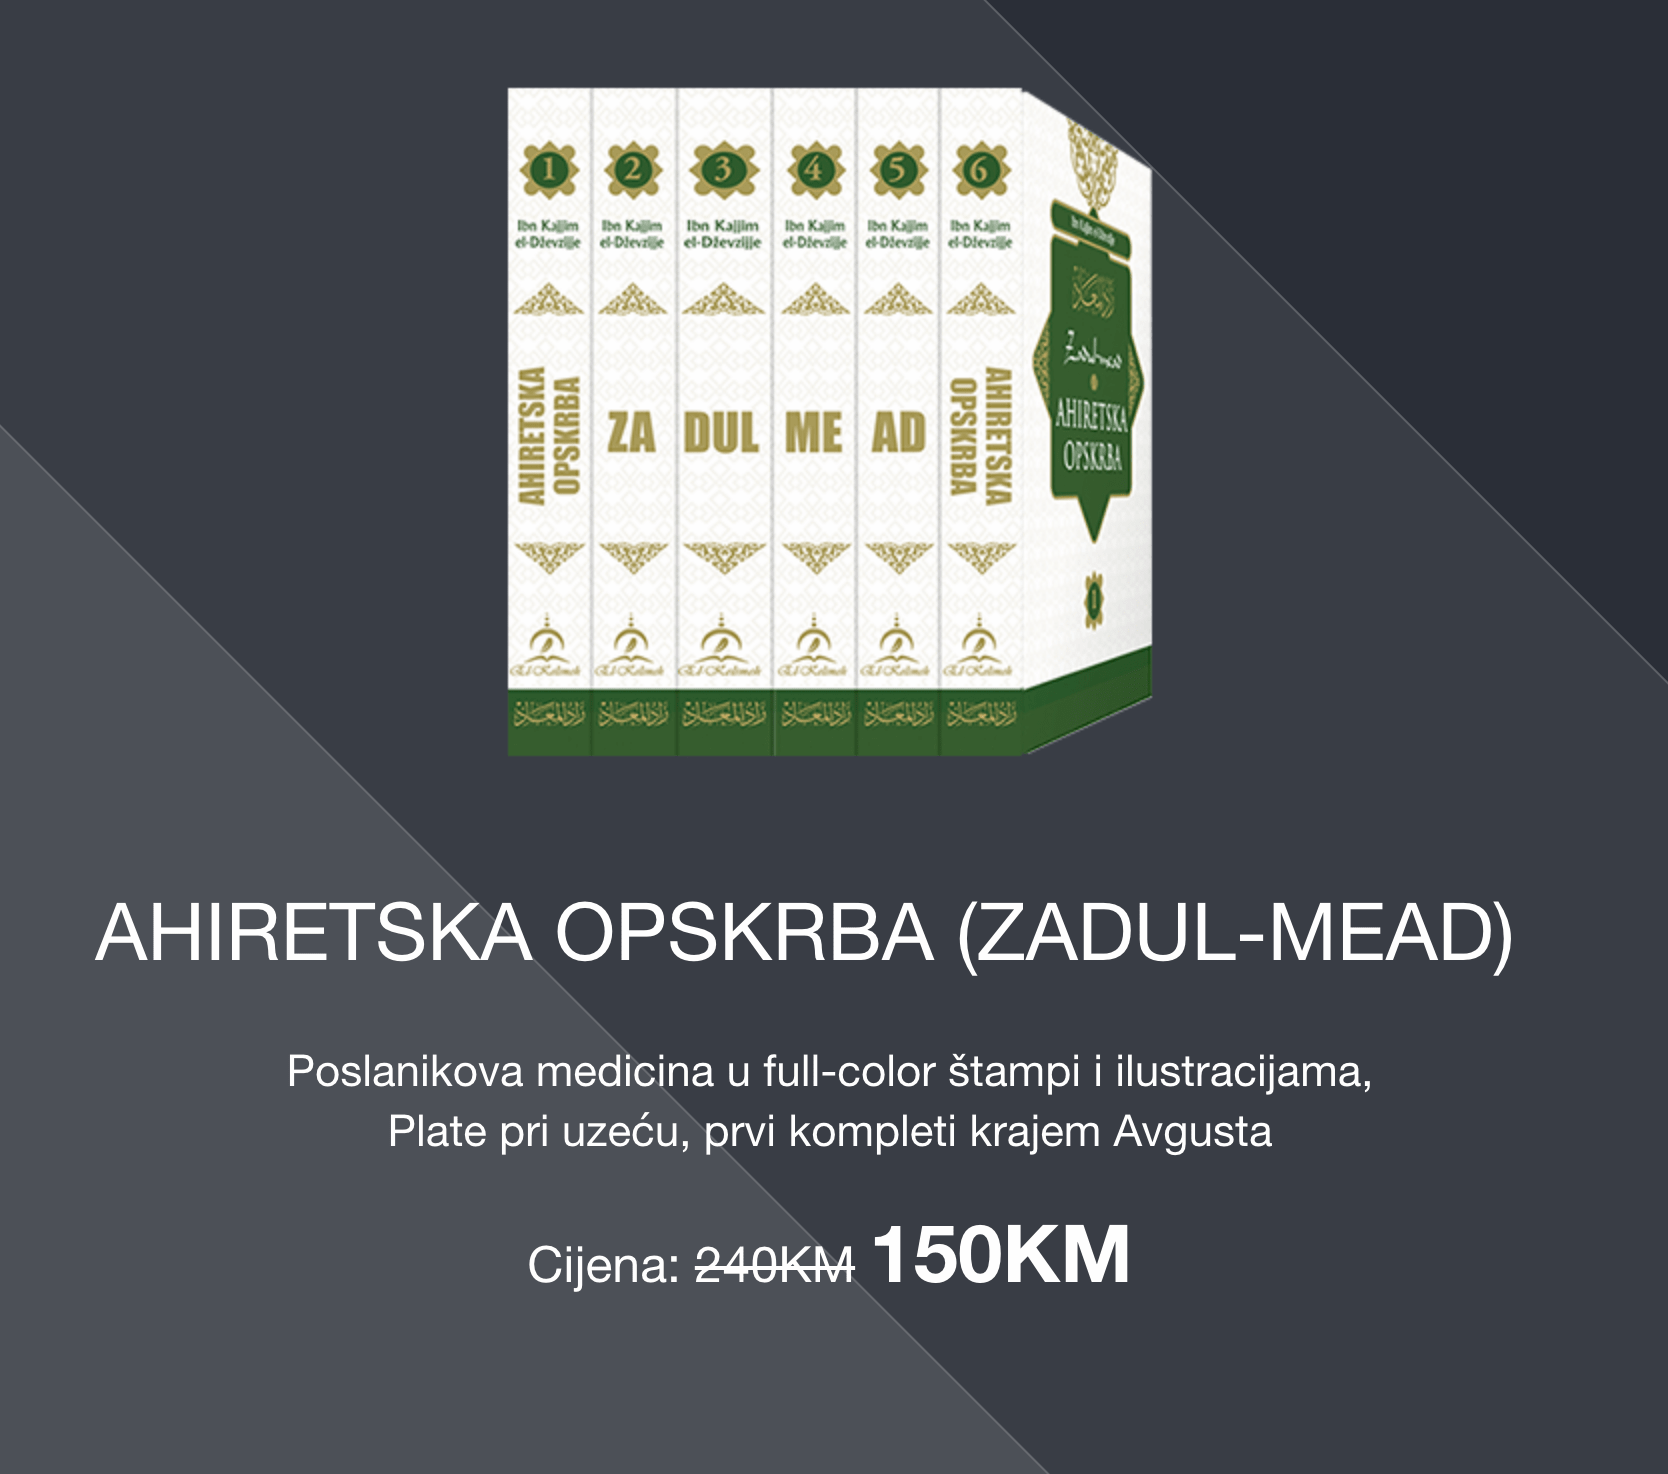
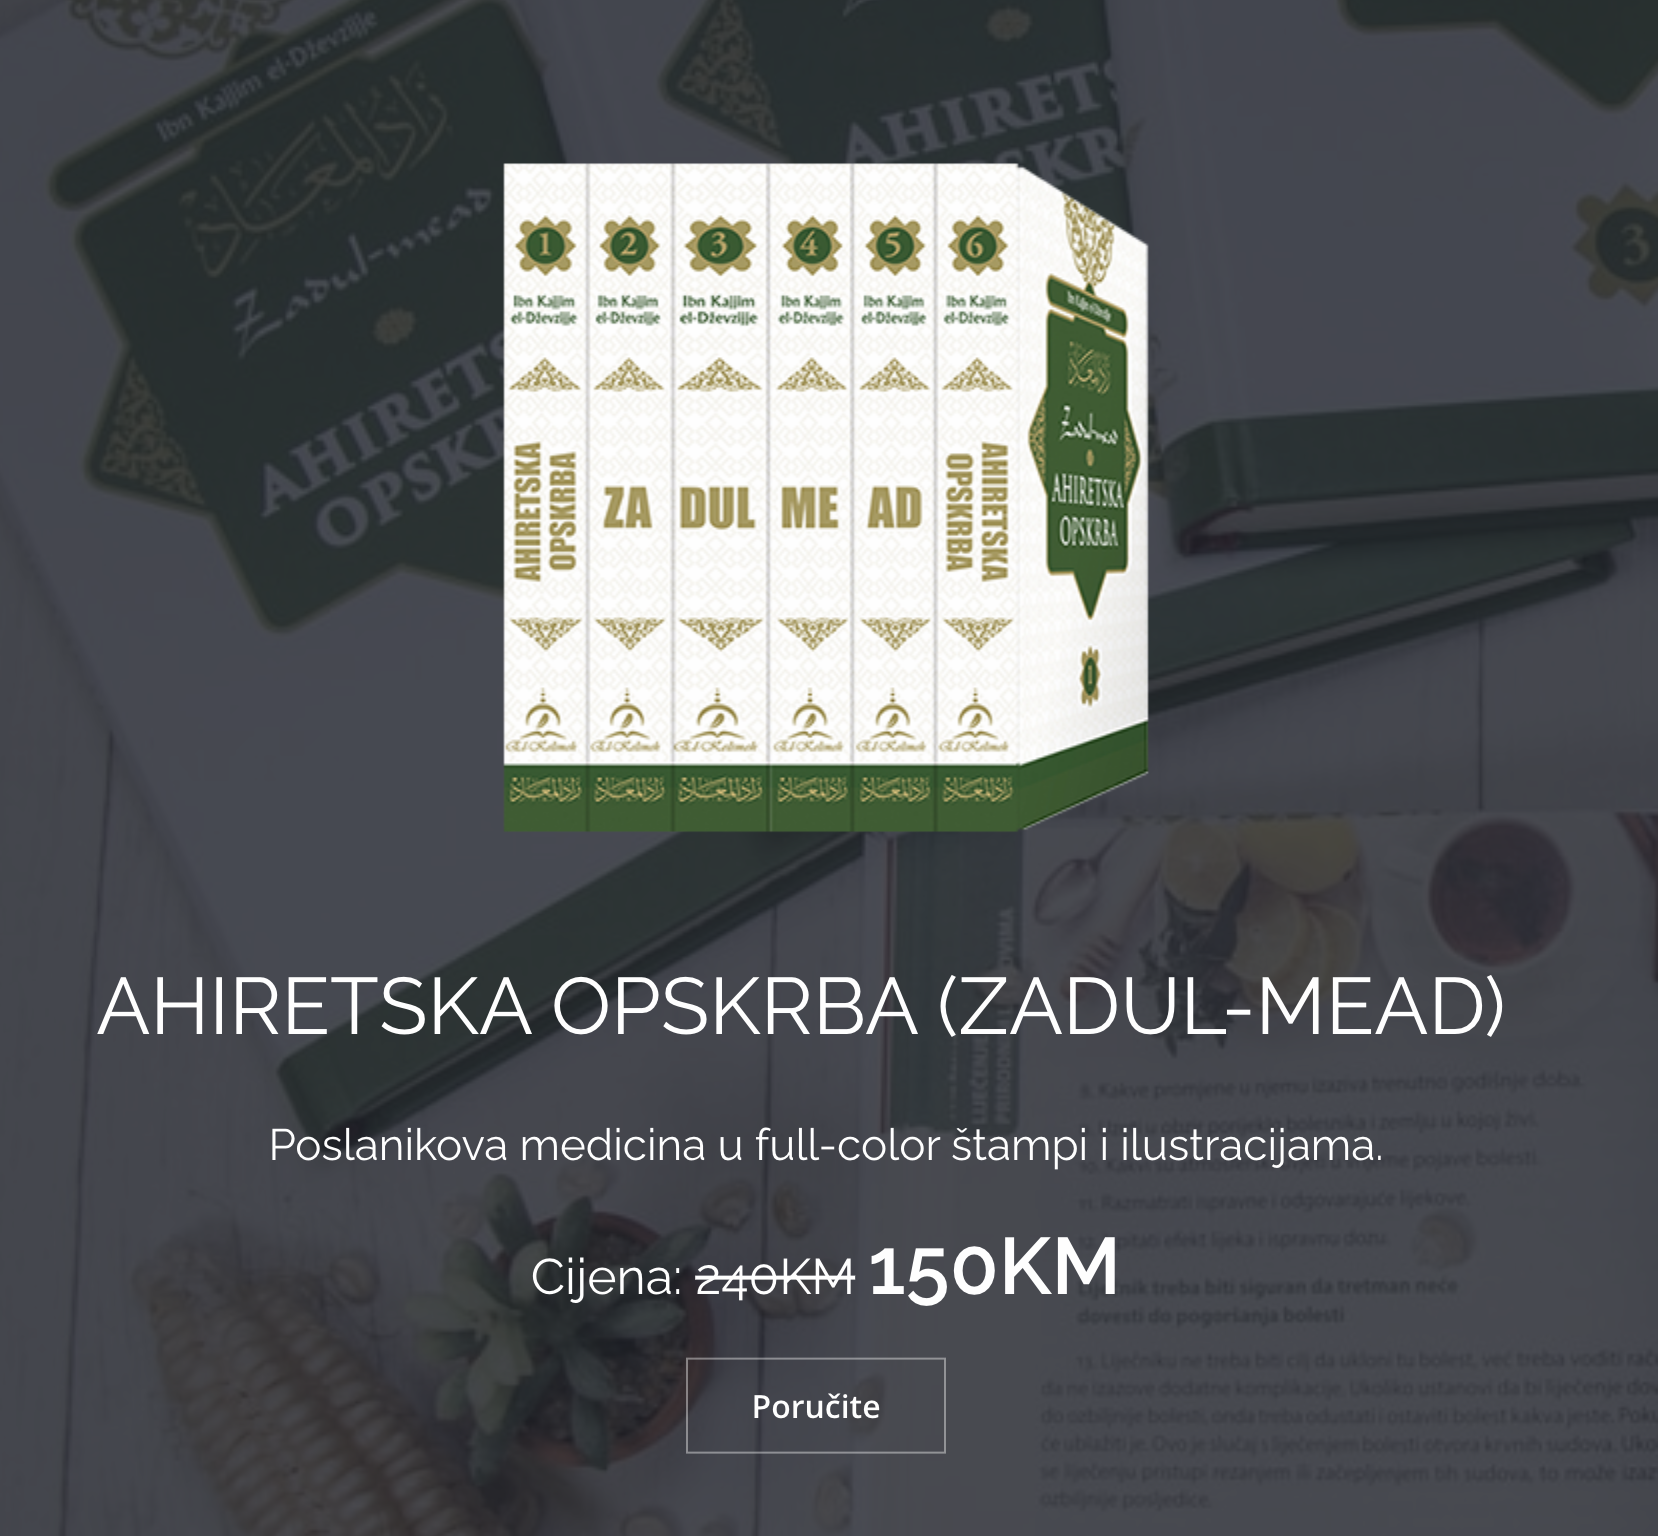
Img changes

Changed region(s): [[0.0615, 0.0, 1.0, 1.0], [0.4614, 0.905, 0.5229, 0.9362]]

diff --git a/index.html b/index.html
@@ -25,7 +25,7 @@
 			src="https://www.facebook.com/tr?id=320846982608931&ev=PageView&noscript=1"
 		/></noscript>
   <!-- End Facebook Pixel Code -->
-		
+
 		<!-- Meta description-->
 		<meta name="robots" content="all">
 		<meta name="keywords" content="ahiretska opskrba zadul-mead, ahiretska opskrba, zadul-mead, zadul mead">
@@ -36,7 +36,7 @@
 		<meta property="og:type" content="website" />
 		<meta property="og:image:alt" content="Ahiretska opskrba Zadul-mead">
 		<meta property="og:type" content="website">
-		<meta property="description" property="description" name="description" content="AHIRETSKA OPSKRBA (ZADUL-MEAD) kapitalno djelo velikana 
+		<meta property="description" property="description" name="description" content="AHIRETSKA OPSKRBA (ZADUL-MEAD) kapitalno djelo velikana
 		islamskih znanosti Ibn Kajjima el-Dževzijje, u šest tomova B5 formata sa koricama u tvrdom uvezu i najkvalitetnijoj štampi na šamoa papiru, na blizu 3.000 strana.">
 		<meta property="og:locale" content="bs-BA">
 
@@ -67,7 +67,7 @@
 			return false;
 			}
 		</script>
-	
+
 
 
 		<!-- Global site tag (gtag.js) - Google Analytics -->
@@ -87,9 +87,9 @@
         <link rel="apple-touch-icon" sizes="144x144" href="img/favicon-retina-ipad.png">
         <!-- Retina iPhone Touch Icon-->
         <link rel="apple-touch-icon" sizes="114x114" href="img/favicon-retina-iphone.png">
-        <!-- Standard iPad Touch Icon--> 
+        <!-- Standard iPad Touch Icon-->
         <link rel="apple-touch-icon" sizes="72x72" href="img/favicon-standard-ipad.png">
-        <!-- Standard iPhone Touch Icon--> 
+        <!-- Standard iPhone Touch Icon-->
         <link rel="apple-touch-icon" sizes="57x57" href="img/favicon-standard-iphone.png">
 
         <!-- ============== Resources style ============== -->
@@ -98,7 +98,7 @@
 		<!-- Modernizr runs quickly on page load to detect features -->
 		<script src="js/modernizr.custom.js"></script>
 	</head>
-	
+
 	<body>
 
 		<!-- Page preloader -->
@@ -132,14 +132,13 @@
 				<!-- Your logo -->
 				<img src="img/logo.png" alt="" class="brand-logo text-intro opacity-0" />
 				<h1 class="text-intro opacity-0"><span class="polyfy-title">AHIRETSKA OPSKRBA (ZADUL-MEAD)</span></h1>
-				<p class="text-intro opacity-0">Poslanikova medicina u full-color štampi i ilustracijama. 
-					<br>Plate pri uzeću, prvi kompleti krajem Avgusta
+				<p class="text-intro opacity-0">Poslanikova medicina u full-color štampi i ilustracijama.
 
 
 				</p>
 				<h5 class="text-intro opacity-0 darky" id="cijena">Cijena: <strike>240KM</strike> <span id="novaCijena">150KM</span></h5>
 				<a href="#" id="go-contact" data-target="contact-anchor" class="light-btn text-intro opacity-0">Poručite</a>
-						
+
 			</div> <!-- /. content -->
 
 			<!-- Social icons -->
@@ -157,11 +156,11 @@
 		<section id="info-wrap" class="show-info">
 
 			<div class="hero">
-					
+
 				<div class="center-text">
 
-					<h3 class="darky">Pretplatnička I PROMOTIVNA AKCIJA</h3>
-					<h3 class="darky" id="komplet">KOMPLET IZLAZI IZ ŠTAMPE SREDINOM MJESECA AVGUSTA</h3>
+					<h3 class="darky">PROMOTIVNA AKCIJA</h3>
+					<h3 class="darky" id="komplet"></h3>
 					<p><strong>AHIRETSKA OPSKRBA (ZADUL-MEAD)</strong>  kapitalno djelo velikana islamskih znanosti Ibn Kajjima el-Dževzijje,
 					u šest tomova B5 formata sa koricama u tvrdom uvezu i najkvalitetnijoj štampi na šamoa papiru, na blizu 3.000 strana.</p>
 
@@ -170,31 +169,31 @@
 			</div> <!-- /. hero -->
 
 			<div class="content">
-					
+
 				<div class="photo-line">
-						
+
 					<div class="my-gallery" itemscope itemtype="http://schema.org/ImageGallery">
 
 						<!-- Item -->
 						<figure itemprop="associatedMedia" itemscope itemtype="http://schema.org/ImageObject" class="col-xs-12 col-sm-6 col-lg-6 clear-second">
-							
+
 							<!-- Link to the picture and to open the gallery / Fill up well the data-size property -->
 							<!-- <a class="box-picture" href="img/gallery-1.jpg" itemprop="contentUrl" data-size="1920x1280"> -->
-								
+
 								<!-- Your picture -->
-								<img src="img/gallery-1.jpg" itemprop="thumbnail" alt="This is my work" class="img-responsive" />
+								<img src="img/1.jpg" itemprop="thumbnail" alt="This is my work" class="img-responsive" />
 								<!-- <div class="text-center">
 									<h4>The bridge</h4>
 									<p>May 14, 2016</p>
 								</div> -->
-								
+
 							<!-- </a> -->
-								
+
 							<!-- Picture's description for the gallery -->
 							<!-- <figcaption itemprop="caption description"> -->
 
 								<!-- <div class="photo-details">
-								
+
 									<h4>Fly in the sky</h4>
 
 									<span class="border"></span>
@@ -209,24 +208,24 @@
 
 						<!-- Item -->
 						<figure itemprop="associatedMedia" itemscope itemtype="http://schema.org/ImageObject" class="col-xs-12 col-sm-6 col-lg-6">
-							
+
 							<!-- Link to the picture and to open the gallery / Fill up well the data-size property -->
 							<!-- <a class="box-picture" href="img/gallery-2.jpg" itemprop="contentUrl" data-size="1920x1280"> -->
-								
+
 								<!-- Your picture -->
-								<img src="img/gallery-2.jpg" itemprop="thumbnail" alt="This is my work" class="img-responsive" />
+								<img src="img/2.jpg" itemprop="thumbnail" alt="This is my work" class="img-responsive" />
 								<!-- <div class="text-center">
 									<h4>Natural life</h4>
 									<p>July 26, 2016</p>
 								</div> -->
-								
+
 							<!-- </a> -->
-								
+
 							<!-- Picture's description for the gallery -->
 							<!-- <figcaption itemprop="caption description">
 
 								<div class="photo-details">
-								
+
 									<h4>探索世界</h4>
 
 									<span class="border"></span>
@@ -239,11 +238,75 @@
 
 						</figure>
 
+            <!-- Item -->
+            <figure itemprop="associatedMedia" itemscope itemtype="http://schema.org/ImageObject" class="col-xs-12 col-sm-6 col-lg-6">
+
+              <!-- Link to the picture and to open the gallery / Fill up well the data-size property -->
+              <!-- <a class="box-picture" href="img/gallery-2.jpg" itemprop="contentUrl" data-size="1920x1280"> -->
+
+                <!-- Your picture -->
+                <img src="img/3.jpg" itemprop="thumbnail" alt="This is my work" class="img-responsive" />
+                <!-- <div class="text-center">
+                  <h4>Natural life</h4>
+                  <p>July 26, 2016</p>
+                </div> -->
+
+              <!-- </a> -->
+
+              <!-- Picture's description for the gallery -->
+              <!-- <figcaption itemprop="caption description">
+
+                <div class="photo-details">
+
+                  <h4>探索世界</h4>
+
+                  <span class="border"></span>
+
+                  <p>This is what I love, and can't stop loving! I'm told to enjoy every moment, every hour, every minute.</p>
+
+                </div>
+
+              </figcaption> -->
+
+            </figure>
+
+            <!-- Item -->
+            <figure itemprop="associatedMedia" itemscope itemtype="http://schema.org/ImageObject" class="col-xs-12 col-sm-6 col-lg-6">
+
+              <!-- Link to the picture and to open the gallery / Fill up well the data-size property -->
+              <!-- <a class="box-picture" href="img/gallery-2.jpg" itemprop="contentUrl" data-size="1920x1280"> -->
+
+                <!-- Your picture -->
+                <img src="img/4.jpg" itemprop="thumbnail" alt="This is my work" class="img-responsive" />
+                <!-- <div class="text-center">
+                  <h4>Natural life</h4>
+                  <p>July 26, 2016</p>
+                </div> -->
+
+              <!-- </a> -->
+
+              <!-- Picture's description for the gallery -->
+              <!-- <figcaption itemprop="caption description">
+
+                <div class="photo-details">
+
+                  <h4>探索世界</h4>
+
+                  <span class="border"></span>
+
+                  <p>This is what I love, and can't stop loving! I'm told to enjoy every moment, every hour, every minute.</p>
+
+                </div>
+
+              </figcaption> -->
+
+            </figure>
+
 						<!-- Item
 						<figure itemprop="associatedMedia" itemscope itemtype="http://schema.org/ImageObject" class="col-xs-12 col-sm-6 col-lg-6 clear-second">
-							
-						
-							
+
+
+
 					</div> /# my-gallery -->
 
 				</div> <!-- /. photo-line -->
@@ -274,7 +337,7 @@
 
 		                <div class="col-xs-12 col-sm-4 col-lg-4 item-map">
 		                    <div class="contact-item"><i class="fa fa-truck"></i>
-		                        <p><a href="mailto:your-email@good.com">Dostava besplatna za BiH <br> Prvi kompleti krajem Avgusta</a>
+		                        <p>Dostava besplatna za BiH
 		                        </p>
 		                    </div>
 		                </div>
@@ -327,14 +390,14 @@
 
 		        </form>
 		        <!-- END - Contact Form -->
-		        
-		        <!-- !!! Answer for the contact form is displayed in the next div, do not remove it. -->       
+
+		        <!-- !!! Answer for the contact form is displayed in the next div, do not remove it. -->
 		        <div id="block-answer">
 
 					<div id="answer"></div>
 
 				</div>
-			
+
 			</div> <!-- /. content-form -->
 
 			<footer>
@@ -350,13 +413,13 @@
 		<div id="somedialog" class="dialog">
 
 			<div class="dialog__overlay"></div>
-					
+
 			<div class="dialog__content">
-						
+
 				<div class="dialog-inner">
-							
+
 					<h4>Join the Legend right now!</h4>
-							
+
 					<p>Being the first to know always feels great... Signing up to our newsletter gives you <strong>exclusive access to our Grand Opening!</strong></p>
 
 					<!-- Newsletter Form -->
@@ -367,7 +430,7 @@
 		                    <div class="form-group">
 
 		                        <div class="controls">
-		                            
+
 		                        	<!-- Field  -->
 		                        	<input type="text" id="mail-sub" name="email" placeholder="Click here to write your email" onfocus="this.placeholder = ''" onblur="this.placeholder = 'Click here to write your email'" class="form-control email srequiredField" />
 
@@ -407,21 +470,21 @@
 
 			</div>
 			<!-- /. dialog__content -->
-						
+
 		</div>
 		<!-- END - Newsletter Popup -->
 
 		<!-- Root element of PhotoSwipe, the gallery. Must have class pswp. -->
 		<div class="pswp" tabindex="-1" role="dialog" aria-hidden="true">
 
-		    <!-- Background of PhotoSwipe. 
+		    <!-- Background of PhotoSwipe.
 	        	It's a separate element as animating opacity is faster than rgba(). -->
 		    <div class="pswp__bg"></div>
 
 		    <!-- Slides wrapper with overflow:hidden. -->
 		    <div class="pswp__scroll-wrap">
 
-		        <!-- Container that holds slides. 
+		        <!-- Container that holds slides.
 		            PhotoSwipe keeps only 3 of them in the DOM to save memory.
 		            Don't modify these 3 pswp__item elements, data is added later on. -->
 		        <div class="pswp__container">
@@ -460,7 +523,7 @@
 		            </div>
 
 		            <div class="pswp__share-modal pswp__share-modal--hidden pswp__single-tap">
-		                <div class="pswp__share-tooltip"></div> 
+		                <div class="pswp__share-tooltip"></div>
 		            </div>
 
 		            <button class="pswp__button pswp__button--arrow--left" title="Previous (arrow left)">
@@ -483,17 +546,17 @@
 	<!-- ///////////////////\\\\\\\\\\\\\\\\\\\ -->
     <!-- ********** Resources jQuery ********** -->
     <!-- \\\\\\\\\\\\\\\\\\\/////////////////// -->
-	
+
 	<!-- * Libraries jQuery, Easing and Bootstrap - Be careful to not remove them * -->
 	<script src="js/jquery.min.js"></script>
 	<script src="js/jquery.easings.min.js"></script>
 	<script src="js/bootstrap.min.js"></script>
 
 	<!-- Accelerated JavaScript animation JS file -->
-	<script src="js/velocity.min.js"></script> 
+	<script src="js/velocity.min.js"></script>
 
 	<!-- Accelerated JavaScript animation UI JS file -->
-	<script src="js/velocity.ui.min.js"></script> 
+	<script src="js/velocity.ui.min.js"></script>
 
 	<!-- Newsletter plugin -->
 	<script src="js/notifyMe.js"></script>
@@ -516,14 +579,14 @@
 	<script src="js/dialogFx.js"></script>
 
 	<!-- PhotoSwipe Core JS file -->
-	<script src="js/photoswipe.js"></script> 
+	<script src="js/photoswipe.js"></script>
 
 	<!-- PhotoSwipe UI JS file -->
 	<script src="js/photoswipe-ui-default.js"></script>
 
 	<!-- Main JS File -->
 	<script src="js/main-info.js"></script>
-	
+
 	<!--[if lt IE 10]><script type="text/javascript" src="js/placeholder.js"></script><![endif]-->
 	</body>
 

diff --git a/css/style-info.css b/css/style-info.css
@@ -34,7 +34,7 @@
 /* Google Fonts */
 @import url("http://fonts.googleapis.com/css?family=Montserrat:400,700|Open+Sans:400,300,600,700|Raleway:400,200,600|Pacifico");
 /*
-* http://meyerweb.com/eric/tools/css/reset/ 
+* http://meyerweb.com/eric/tools/css/reset/
 * v2.0 | 20110126
 * License: none (public domain)
 */
@@ -485,7 +485,7 @@ sup {
 }
 
 .global-overlay .overlay .overlay-dash {
-  background: url(../img/overlay.svg);
+  background: url(../img/8.jpg);
   background-size: cover;
   background-position: center center;
   position: absolute;
@@ -1862,7 +1862,7 @@ footer p {
 }
 
 #home-wrap:before {
-  background: rgba(32, 35, 45, 0.5) !important;
+  background: rgba(32, 35, 45, 0.8) !important;
 }
 
 /* ------------------------------------- */
